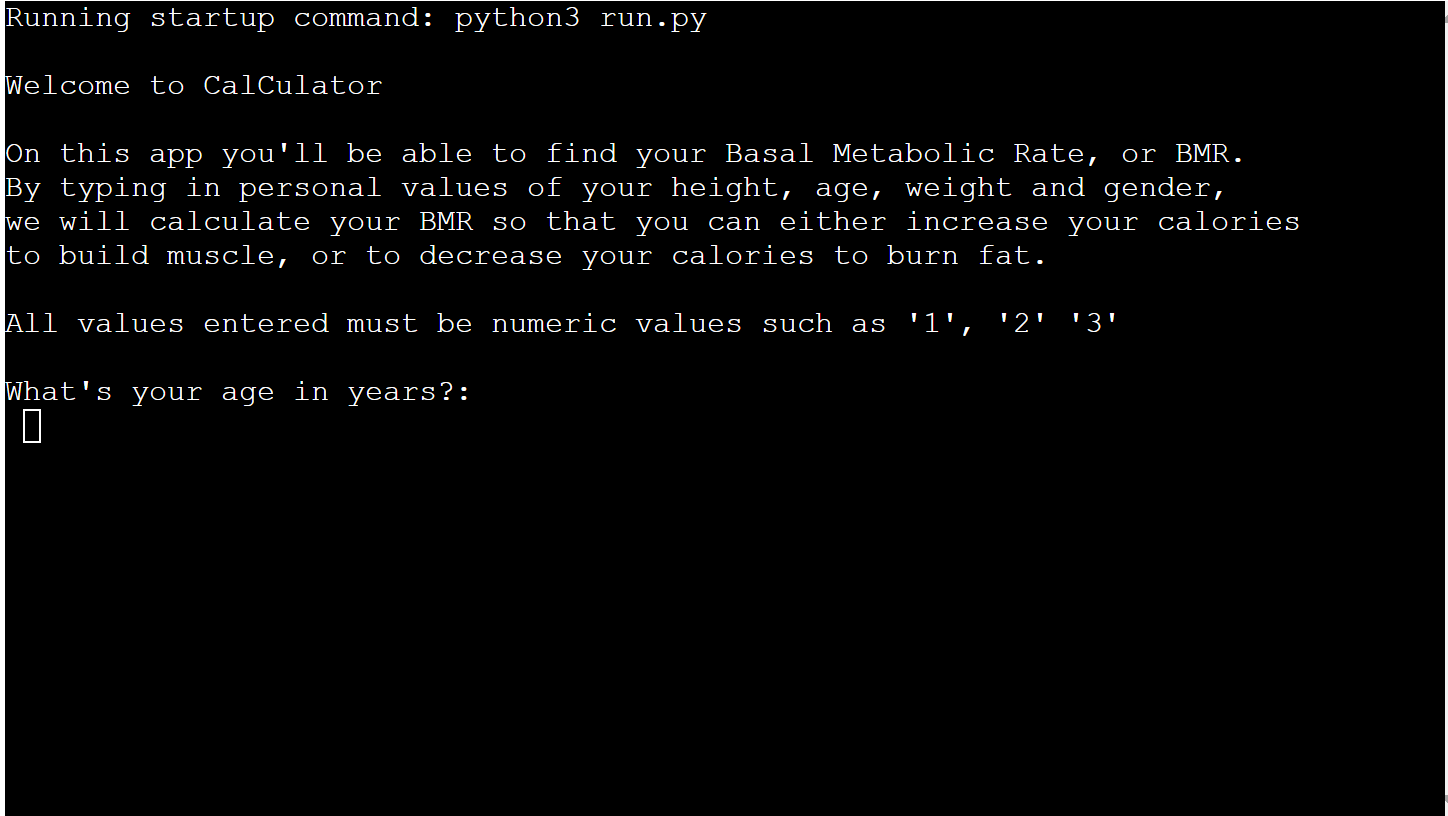
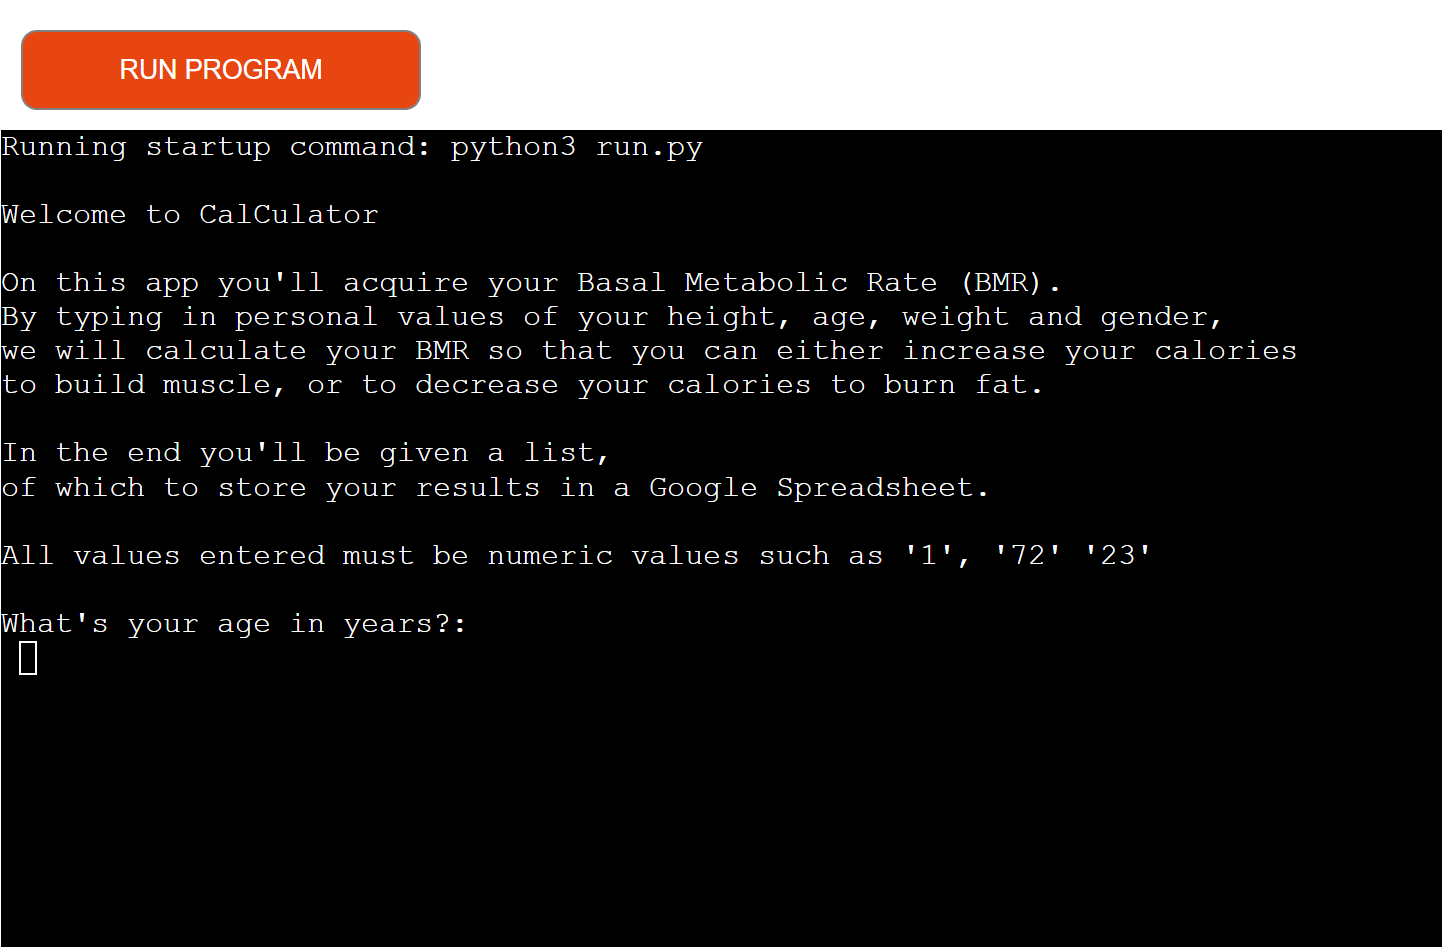
docs: Add a table of contents and fill out 'strategy'

diff --git a/README.md b/README.md
@@ -1,64 +1,61 @@
-# CalCulator
+# CalCulator 
 
-This is an app that calculates the basal metabolic rate (BMR), which is caloric expenditure that a person's body burns when only doing basal tasks. 
+[View the published application on Heroku](https://cal-culators.herokuapp.com/)
 
-This is a simplistic calculation that takes a few different variables: height, weight and age of the user, and then calculates their BMR. 
+[View Google Sheets used for the project](https://docs.google.com/spreadsheets/d/1Em1IxjtKPEYA8Kc-0m8CRgSNmk6oF-ZLwpCXgDp_-kU/edit#gid=0)
 
-[Live Version Of The App](https://cal-culators.herokuapp.com/)
+![Image from Am I Responsive](readme-img/start-calc.png)
 
-## How to use
+## Project Overview
 
-CalCulator consists of four different inputs, where the user enters some personal data which will be used to calculate their BMR. The data is age in years, weight in kilograms, height in centimetres and their gender (male or female).
+CalCulator is a terminal based app that allows the user to calculate their Basal Metabolic Rate, or BMR. This has been created as part of my Project 3 for Code Institute.
 
-## Features
+## Table of Contents
 
-![feature.1](readme-img/start-calc.png)
+1. [Strategy](#strategy)
+    * [Project Goals](#project-goals)
+    * [User Intention](#user-intention)
+    * [Scope](#scope)
+    * [Design]
+    * [Skeleton]
+        * [Flowchart]
+2. [Features]
+    * [Current Features]
+    * [Future Features]
+3. [Technologies Uses]
+4. [Testing]
+    * [Validation Testing]
+    * [Known Bugs and Fixes]
+5. [Deployment]
+6. [Credits]
 
-- Prints a message welcoming the user to the app, and giving quick instructions.
-- The computer automatically starts asking the user to enter their information to use for the calculation.
+## Strategy <a name="strategy"></a>
 
-![feature.2](readme-img/enter-variables.png)
+### Project Goals <a name="project-goals"></a>
 
-- The user is asked to enter their gender, which is necessary to determine their basal metabolic rate.
+The goal of CalCulator is to provide a terminal-based app that allows the user to close to accuratley calculate their Basal Metabolic Rate (BMR), so that they would have an estimation of how many calories they need to consume to either gain weight or to lose weight. The result from the calculation will then be exported onto a Google Sheet, so that the user can store their data, and track their progress any time they decide to use the application.
 
-![feature.3](readme-img/end-calc.png)
+The target audience of this app is anyone that wants to get into fitness and not over- or under eat, to get their desired results. 
 
-- Finally the computer generates the user's basal metabolic rate. In the example above, a 25 yeard old male, standing at 181 cm tall and weighing 94 kg, has a bmr of 2074 calories.
-- With this information the user is able to determine how many calories they need to consume to either gain or lose weight, depending on their goal.
+### User Intention <a name="user-intention"></a>
 
+* __App User Goals:__
 
-### Technologies Used
+    * I want to get an estimation of my BMR.
+    * I want to be able to store my results in a Google Sheet so that I can access it anytime to update my calculation
 
-- [Python](https://www.python.org/)
-- [Heroku](https://www.heroku.com/)
+* __App Owner Goals:__
 
-### Testing
+    * I want to provide an app for the general public that calculates a user's BMR.
+    * I want provide the user a way to store their results in a Google Sheet so that they may update their results depending on their active goals. 
 
-- Manually tested the code and no bugs were found.
+## Scope <a name="scope"></a>
 
-### Validator Testing
+To achieve the goals set for this project, I will implement the following features:
 
-- The code was passed through [Pep8online](http://pep8online.com/), with only two errors. These were found on lines 39 and 41, as they were too long. However, due to the fact that these are equations, there is no suitable reason to shorten them.
+* A function that will take the user's age and create a formula that will be implemented differently depending on the user's gender
+* A function that will take the user's height and create a formula that will be implemented differently depending on the user's gender
+* A function that will take the user's weight and create a formula that will be implemented differently depending on the user's gender
+* An if statement that will execute two different calculations depending on the gender which the user selected.
+* A function that will export the variables entered by the user and their results, and export them onto a Google Sheet.
 
-### Deployment
-
-- Deploying the project to [Heroku](https://dashboard.heroku.com/)
-
-1. Go to Gitpod CLI and create a "requirements" file by typing "pip freeze --local > requirements.txt" in the root directory.
-2. Then, create the "Procfile" by typing "echo web: python app.py > Procfile" into the CLI root directory.
-3. Open the "Procfile" and type in "web: python3 app.py", and delete any blank lines at the bottom, then save this file. 
-4. Add, commit and push these files to Github.
-5. Next, go to Heroku and create your account.
-6. When logged in, click on "create new app", then select the region which is closest to your actual location, as there are only two options available: "North America" and "Europe".
-7. Select "Github" as your deployment method, and within the profile enter the name of your repository which is to be deployed and click "search".
-8. When Heroku has found the repository, click to connect the app. 
-9. Go to the "settings" tab and click on "Add buildpack". Here, add python and nodejs, then save. 
-10. Next, click on "Reveal Config Vars" and in the "KEY" tab, type "PORT". In the "Value" tab, type "8000", then add.
-11. Click "deploy".
-12. Once it has been deployed, your app is runnable by clicking "Open app". 
-
-### Credits
-
-- Code Institute
-- Heroku
-- [garnethealth](https://www.garnethealth.org/news/basal-metabolic-rate-calculator). This is the website from which the BMR formula was acquired.
